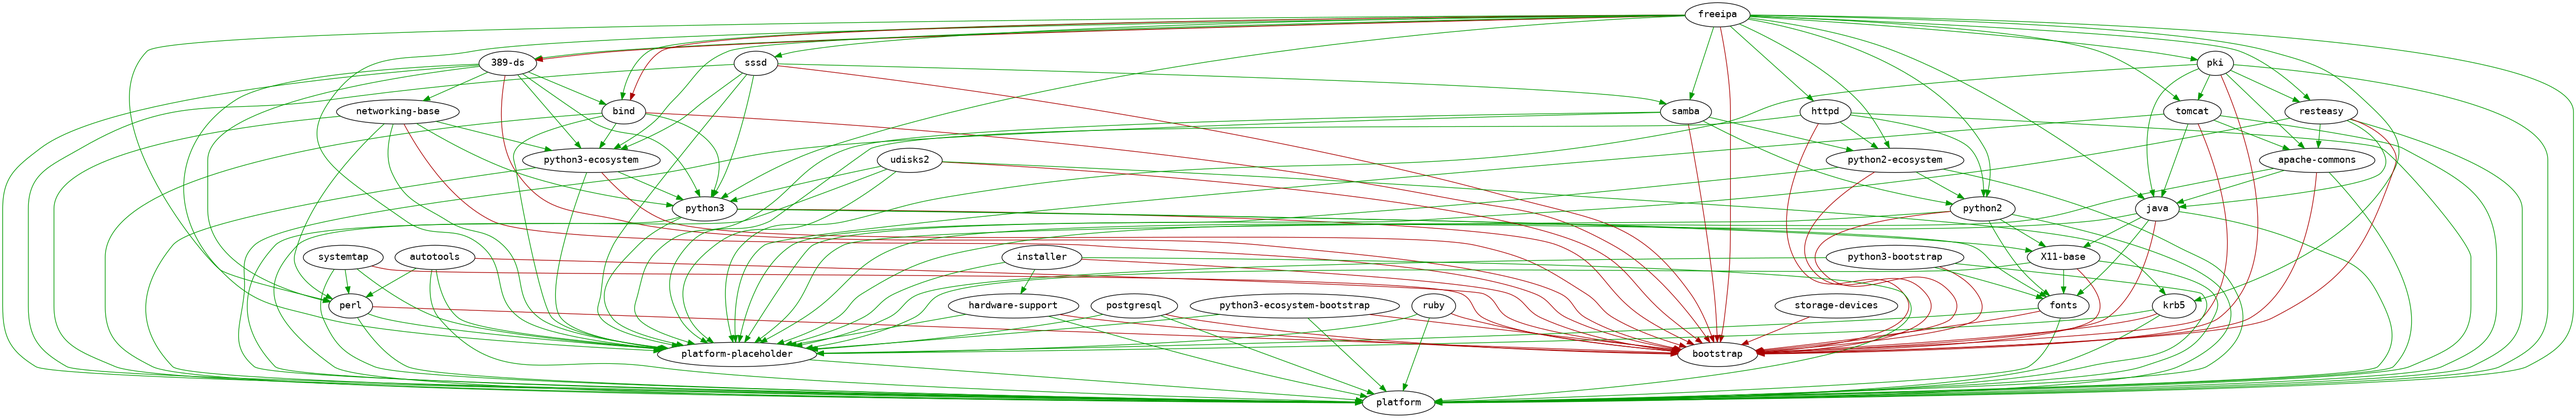
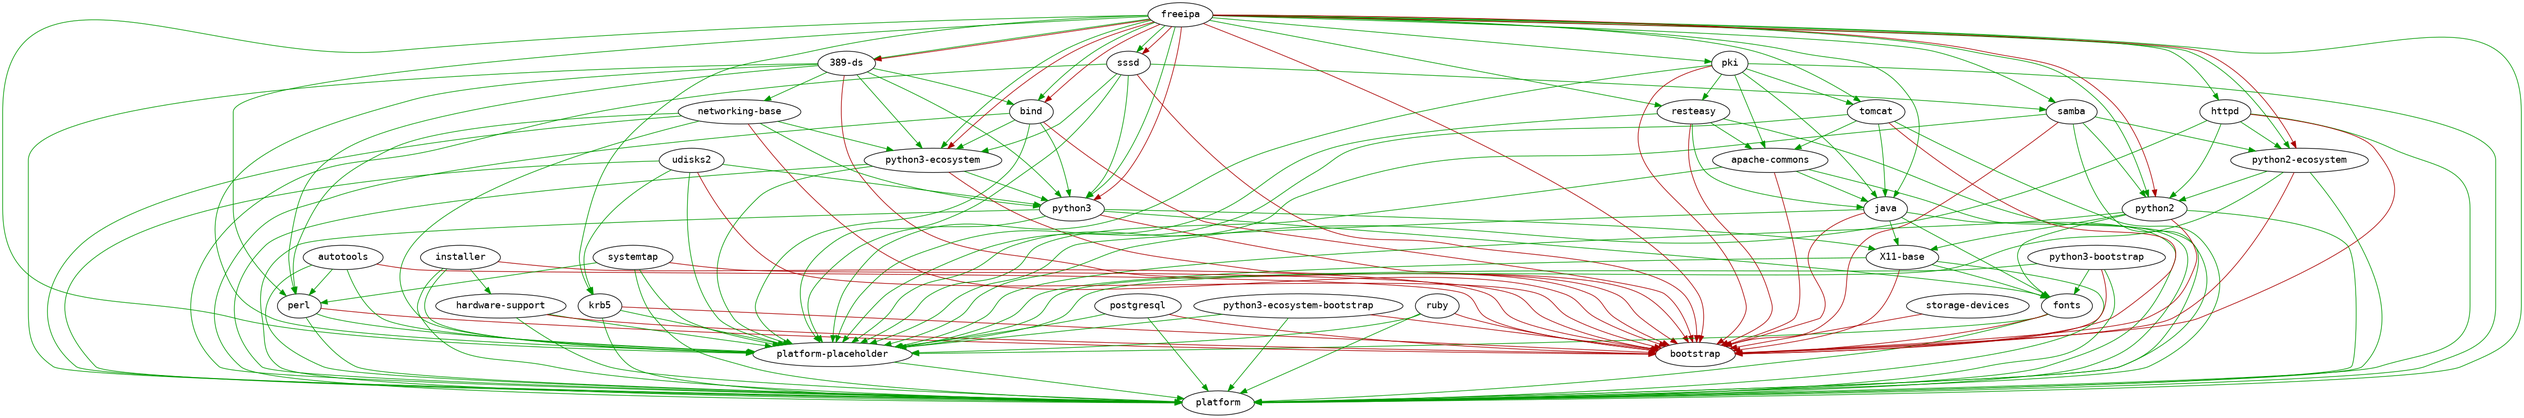
regenerate

diff --git a/global_reports/README.md b/global_reports/README.md
@@ -28,7 +28,7 @@ For more details **individual modules** and **architecture-specific** informatio
 | [**autotools**](../modules/autotools) | **3** pkgs | [**0** pkgs missing](../modules/autotools/all/buildtime-binary-packages-short.txt) |
 | [**bind**](../modules/bind) | **14** pkgs | [**0** pkgs missing](../modules/bind/all/buildtime-binary-packages-short.txt) |
 | [**fonts**](../modules/fonts) | **6** pkgs | [**0** pkgs missing](../modules/fonts/all/buildtime-binary-packages-short.txt) |
-| [**freeipa**](../modules/freeipa) | **58** pkgs | [**15** pkgs missing](../modules/freeipa/all/buildtime-binary-packages-short.txt) |
+| [**freeipa**](../modules/freeipa) | **58** pkgs | [**14** pkgs missing](../modules/freeipa/all/buildtime-binary-packages-short.txt) |
 | [**hardware-support**](../modules/hardware-support) | **0** pkgs | [**0** pkgs missing](../modules/hardware-support/all/buildtime-binary-packages-short.txt) |
 | [**httpd**](../modules/httpd) | **14** pkgs | [**0** pkgs missing](../modules/httpd/all/buildtime-binary-packages-short.txt) |
 | [**installer**](../modules/installer) | **66** pkgs | [**1** pkgs missing](../modules/installer/all/buildtime-binary-packages-short.txt) |

diff --git a/modules/freeipa/README.md b/modules/freeipa/README.md
@@ -29,6 +29,11 @@ Please see the **missing RPM build dependencies ([source](all/buildtime-source-p
 * [bootstrap](../bootstrap)
 * [389-ds](../389-ds)
 * [bind](../bind)
+* [sssd](../sssd)
+* [python2](../python2)
+* [python2-ecosystem](../python2-ecosystem)
+* [python3](../python3)
+* [python3-ecosystem](../python3-ecosystem)
 ## Binary RPM packages
 These are RPM dependencies of the [freeipa top-level package set](freeipa.csv). They should be either:
 * split into other modules and be used as modular dependencies
